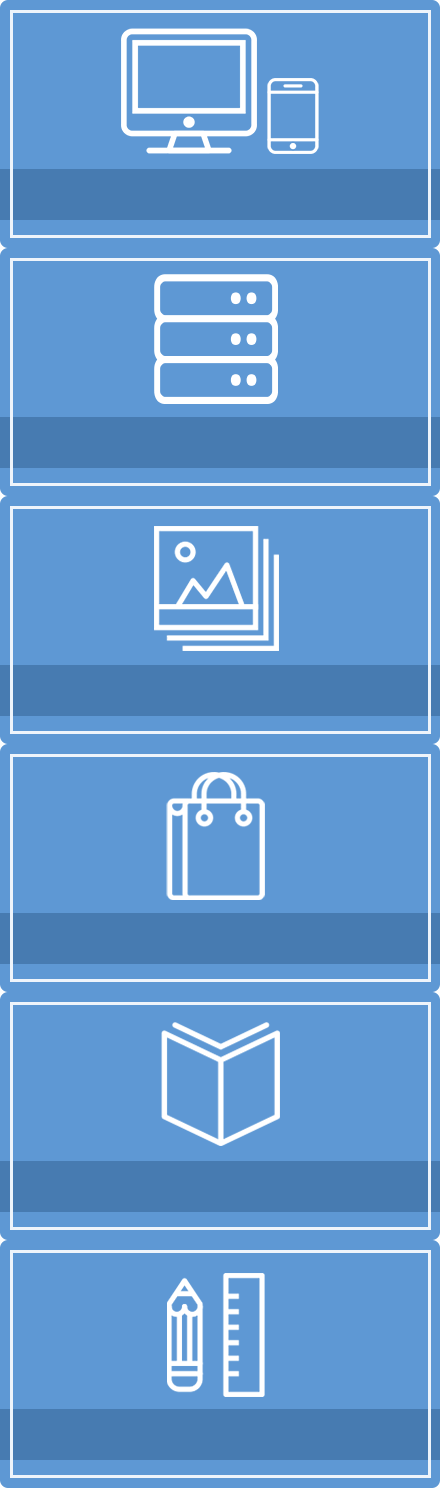
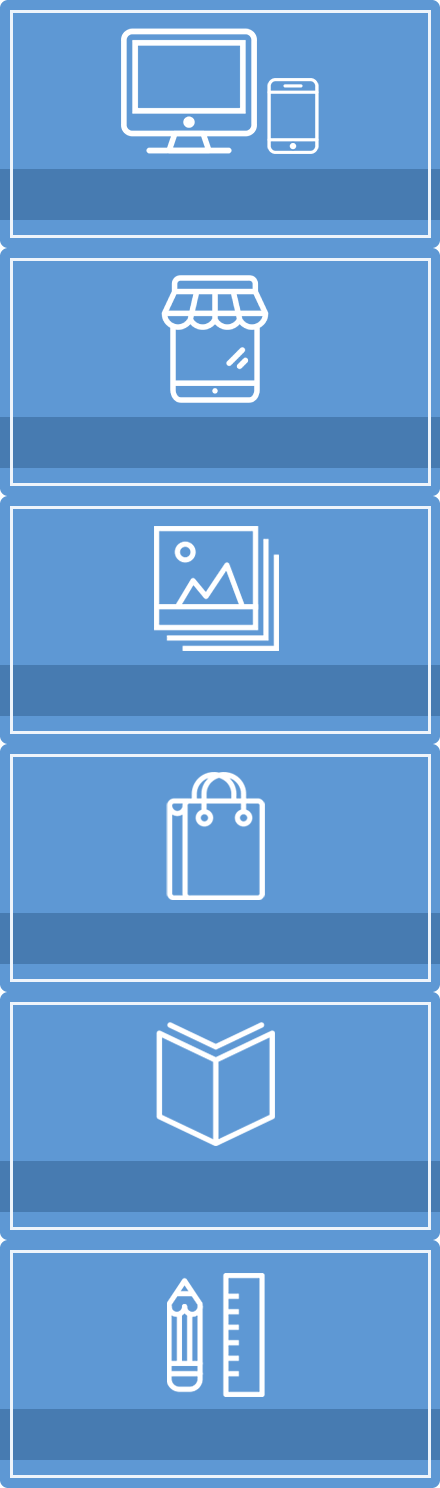
修改服務項目 #20210531

Changed region(s): [[0.325, 0.1855, 0.65, 0.2782], [0.3545, 0.6801, 0.65, 0.7728]]

diff --git a/sw.js b/sw.js
@@ -1,15 +1,13 @@
-var preCacheFile = 'xue-v2021.05.28'; // 存在 Cache Storage 的資料夾名，預存用
-var autoCacheFile = 'letswrite-v2021.05.28'; // 存在 Cache Storage 的資料夾名稱，自動存用
+var preCacheFile = 'xue-v2021.06.01'; // 存在 Cache Storage 的資料夾名，預存用
+var autoCacheFile = 'letswrite-v2021.06.01'; // 存在 Cache Storage 的資料夾名稱，自動存用
 
 // 一定要存下的檔案清單
 // 比如 404.html、logo.svg，不會自動出現在每頁的 request 上，但當使用者是 offline 時又必要會看到的
 const assets = [
   '/?utm_source=PWA',
-  '/images/',
   '/css/',
   '/script/',
-  '/error403.html',
-  '/error404.html'
+  '/images/'
 ];
 
 // 限制存進 Cache Storage 的檔案數量

diff --git a/service.html b/service.html
@@ -116,7 +116,7 @@ height="0" width="0" style="display:none;visibility:hidden"></iframe></noscript>
                 <div id="list_service" class="wow fadeInUp">
                    <ul class="service_item">
                         <li class="service-01">企業形象網站</li>
-                        <li class="service-02">內部管理系統</li>
+                        <li class="service-02">微型電商賣場</li>
                         <li class="service-03">活動EDM設計</li>
                     </ul>
                     <h4>線上/線下虛實整合設計服務</h4>
